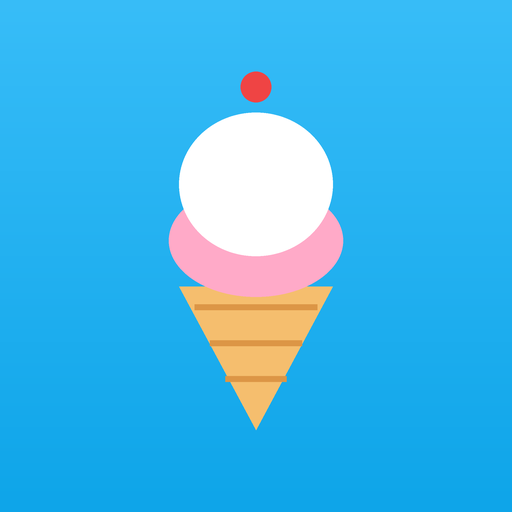
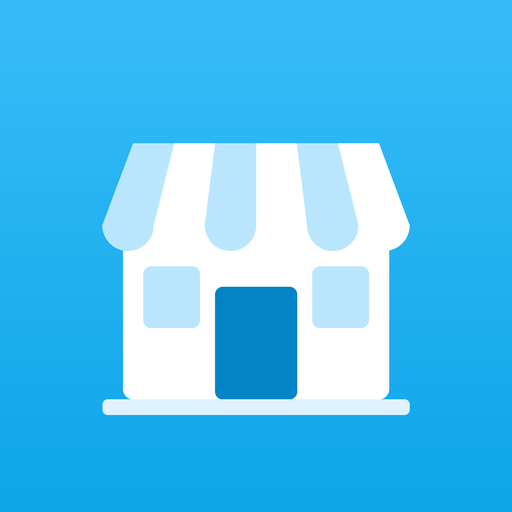
update

Changed region(s): [[0.1875, 0.125, 0.8125, 0.8438]]

diff --git a/js/ventas.js b/js/ventas.js
@@ -170,7 +170,7 @@ const Ventas = {
           <div><span>Total en dólares</span><b>${Utils.usd(totalUsd)}</b></div>
           <div><span>Total en bolívares</span><b>${Utils.bs(Tasa.toBs(totalUsd))}</b></div>
           ${contado ? `<div><span>Te pagan en ${pm === 'BS' ? 'bolívares' : 'dólares'}</span><b>${pm === 'BS' ? Utils.bs(monto) : Utils.usd(monto)}</b></div>` : ''}
-${Seguridad.dueno() ? `<div><span>Ganancia de esta venta</span><b>${Utils.usd(gan)}</b></div>` : ''}`;
+          ${Seguridad.dueno() ? `<div><span>Ganancia de esta venta</span><b>${Utils.usd(gan)}</b></div>` : ''}`;
       };
 
       const pintarCarrito = () => {
@@ -406,23 +406,19 @@ Modules.ventas = {
 
     container.innerHTML = `
       <div class="grid grid-3">
-                $ { esDueno ? `
         <div class="card stat">
-          <div class="stat-icon"><i data-lucide="trending-up"></i></div>
-          <span class="stat-label">Ganancia de hoy</span>
-          <span class="stat-value ${gananciaHoy >= 0 ? 'positive' : 'negative'}">${Utils.usd(gananciaHoy)}</span>
-          <span class="stat-sub">${Utils.bs(Tasa.toBs(gananciaHoy))}</span>
-        </div>` : '' }
+          <div class="stat-icon"><i data-lucide="shopping-bag"></i></div>
           <span class="stat-label">Vendido hoy</span>
           <span class="stat-value">${Utils.usd(totalHoy)}</span>
           <span class="stat-sub">${Utils.bs(Tasa.toBs(totalHoy))}</span>
         </div>
+        ${esDueno ? `
         <div class="card stat">
           <div class="stat-icon"><i data-lucide="trending-up"></i></div>
           <span class="stat-label">Ganancia de hoy</span>
           <span class="stat-value ${gananciaHoy >= 0 ? 'positive' : 'negative'}">${Utils.usd(gananciaHoy)}</span>
           <span class="stat-sub">${Utils.bs(Tasa.toBs(gananciaHoy))}</span>
-        </div>
+        </div>` : ''}
         <div class="card stat">
           <div class="stat-icon"><i data-lucide="receipt"></i></div>
           <span class="stat-label">Ventas hoy</span>
@@ -455,7 +451,7 @@ Modules.ventas = {
       if (!btn) return;
       const a = btn.dataset.action;
       if (a === 'nueva') Ventas.openSale();
-            if (a === 'editar') EditarVenta.abrir(btn.dataset.ids.split(','));
+      if (a === 'editar') EditarVenta.abrir(btn.dataset.ids.split(','));
       if (a === 'devolver') Devoluciones.nueva(btn.dataset.ids.split(','));
       if (a === 'devoluciones') Devoluciones.lista();
       if (a === 'factura') {
@@ -479,7 +475,7 @@ Modules.ventas = {
     };
   },
 
-    card(g) {
+  card(g) {
     const L = g.lineas;
     const v = L[0];
     const total = L.reduce((a, x) => a + x.total, 0);
@@ -491,21 +487,21 @@ Modules.ventas = {
     // Fiado sin pagar: tasa de hoy. Lo demás, la tasa del día de la venta.
     const tasa = debe ? Tasa.valor() : (v.tasa || Tasa.valor());
     const pagoTxt = v.pagoMoneda ? ' · ' + (v.pagoMoneda === 'BS' ? 'Bs' : '$') : '';
-    
+
     const vivas = L.filter(x => x.cantidad > 0);
     const mostrar = vivas.length ? vivas : L;
-    const titulo = mostrar.length === 1 ?
-      `${Utils.esc(mostrar[0].nombre)} × ${Inventario.q(mostrar[0].cantidad)}` :
-      `${mostrar.length} productos`;
-    const detalle = mostrar.length > 1 ?
-      `<div class="muted" style="font-size:.85rem;margin-top:6px">${mostrar.map(x => `${Utils.esc(x.nombre)} × ${Inventario.q(x.cantidad)}`).join(' · ')}</div>` :
-      '';
-    
+    const titulo = mostrar.length === 1
+      ? `${Utils.esc(mostrar[0].nombre)} × ${Inventario.q(mostrar[0].cantidad)}`
+      : `${mostrar.length} productos`;
+    const detalle = mostrar.length > 1
+      ? `<div class="muted" style="font-size:.85rem;margin-top:6px">${mostrar.map(x => `${Utils.esc(x.nombre)} × ${Inventario.q(x.cantidad)}`).join(' · ')}</div>`
+      : '';
+
     const ids = L.map(x => x.id).join(',');
-    const botonFactura = g.ticket ?
-      `<button class="icon-btn" data-action="factura" data-ticket="${g.ticket}" aria-label="Factura"><i data-lucide="file-text"></i></button>` :
-      (v.cliente ? `<button class="icon-btn" data-action="factura" data-id="${v.id}" aria-label="Factura"><i data-lucide="file-text"></i></button>` : '');
-    
+    const botonFactura = g.ticket
+      ? `<button class="icon-btn" data-action="factura" data-ticket="${g.ticket}" aria-label="Factura"><i data-lucide="file-text"></i></button>`
+      : (v.cliente ? `<button class="icon-btn" data-action="factura" data-id="${v.id}" aria-label="Factura"><i data-lucide="file-text"></i></button>` : '');
+
     return `
       <div class="card item">
         <div class="item-head">
@@ -533,7 +529,7 @@ Modules.ventas = {
             ${devuelta
               ? '<span class="badge badge-warning">Devuelta</span>'
               : (devueltoQ > 0 ? `<span class="badge badge-warning">Devolvió ${Inventario.q(devueltoQ)}</span>` : '')}
-${Seguridad.dueno() ? `<span class="muted" style="font-size:.8rem">Ganancia ${Utils.usd(gan)}</span>` : ''}
+            ${Seguridad.dueno() ? `<span class="muted" style="font-size:.8rem">Ganancia ${Utils.usd(gan)}</span>` : ''}
           </div>
           <div class="item-actions">
             ${botonFactura}
@@ -544,4 +540,4 @@ ${Seguridad.dueno() ? `<span class="muted" style="font-size:.8rem">Ganancia ${Ut
         </div>
       </div>`;
   }
-  };
+};

diff --git a/js/ajustes.js b/js/ajustes.js
@@ -60,3 +60,15 @@ const Ajustes = {
     });
   }
 };
+// Pone el nombre del negocio en el menú y en el título de la página
+Ajustes.aplicarNombre = function() {
+  const n = (Store.get('config', {}).negocio || '').trim();
+  if (!n) return;
+  const t = document.querySelector('.brand-text strong');
+  if (t) t.textContent = n;
+  document.title = n;
+};
+document.addEventListener('DOMContentLoaded', () => Ajustes.aplicarNombre());
+window.addEventListener('store:change', e => {
+  if (e.detail && e.detail.key === 'config') Ajustes.aplicarNombre();
+});

diff --git a/index.html b/index.html
@@ -25,7 +25,7 @@
     <!-- MENÚ LATERAL (en celular pasa abajo) -->
     <aside class="sidebar">
       <div class="brand">
-        <div class="brand-logo"><i data-lucide="ice-cream-cone"></i></div>
+        <div class="brand-logo"><i data-lucide="store"></i></div>
         <div class="brand-text">
           <strong>Mi Heladería</strong>
           <span>Control de negocio</span>

diff --git a/sw.js b/sw.js
@@ -9,7 +9,7 @@
    LOCAL y cambia VERSION.
    ========================================================= */
 
-const VERSION = 'v5';
+const VERSION = 'v6';
 const CACHE = 'heladeria-' + VERSION;
 
 const LOCAL = [
